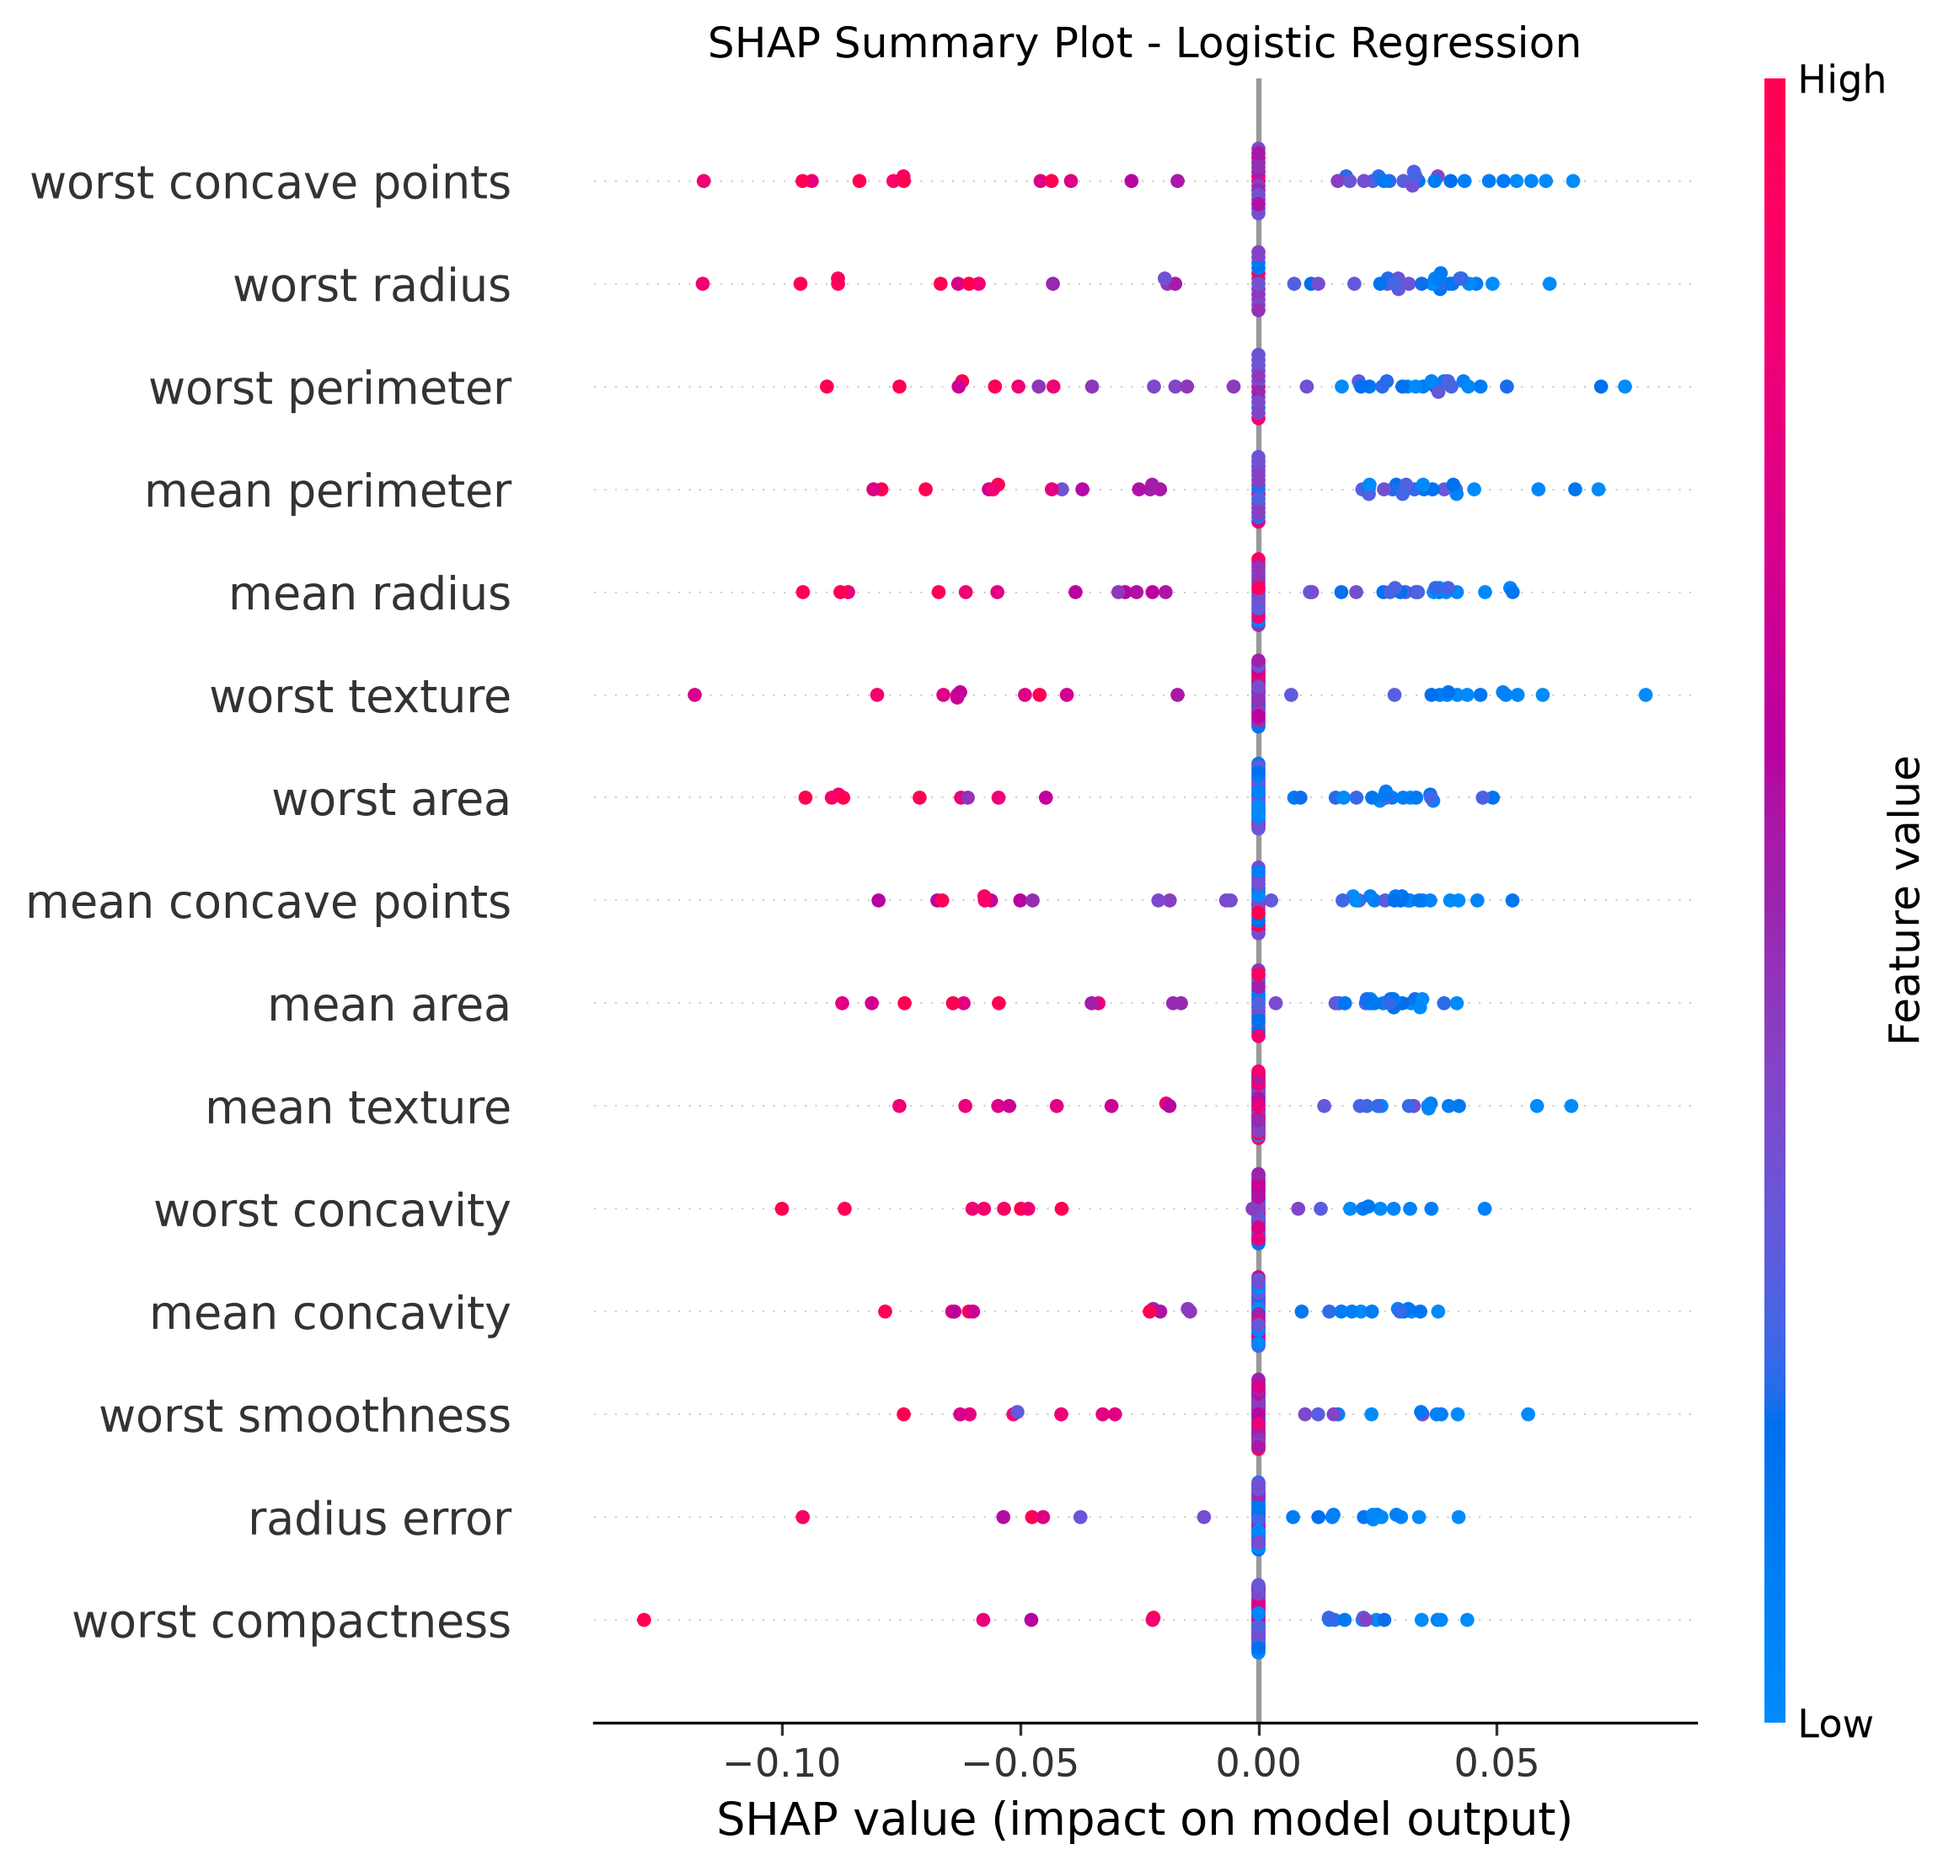
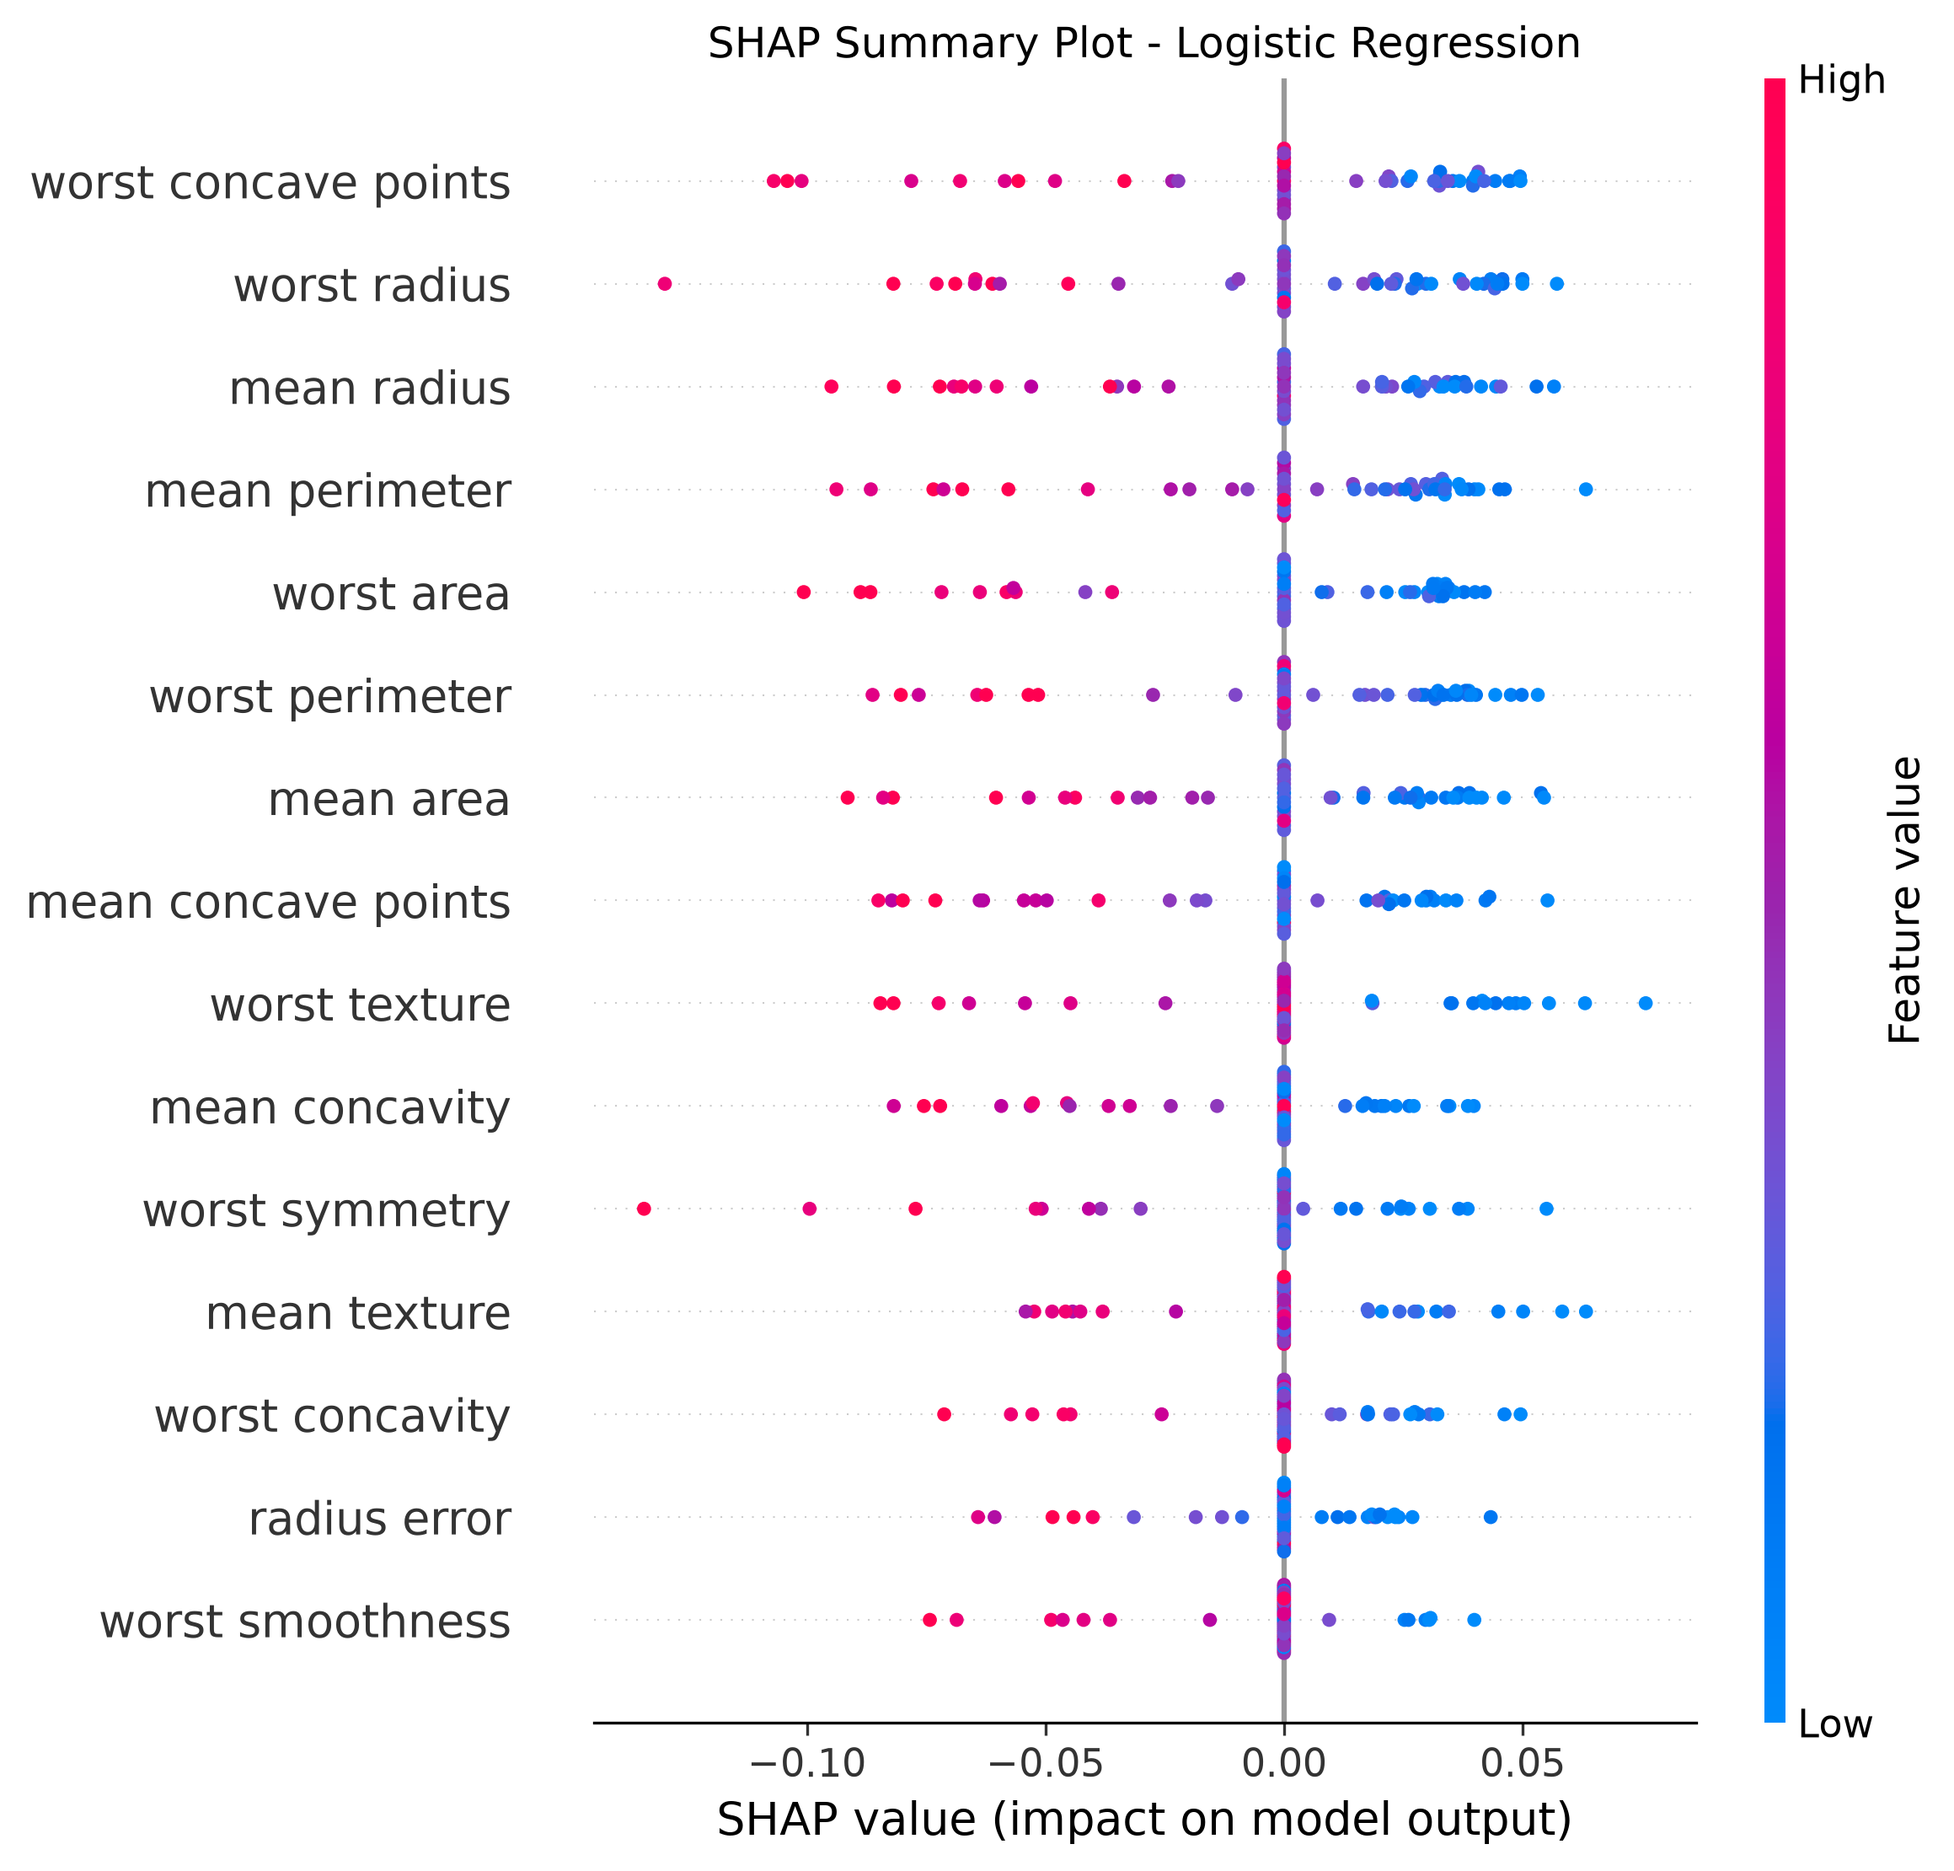
Added comments to each of the files

diff --git a/src/main.py b/src/main.py
@@ -1,3 +1,21 @@
+# Milan Suri
+# CSC 561
+'''
+This is the main pipeline of the project. It combines the logistic regression model with gradient descent to
+train my logistic regression model on the breast cancer dataset from sklearn. Achieves these results:
+
+--- Training Results ---
+Final loss: 0.10726159
+Iterations: 10000
+Bias: 0.317636
+
+--- Test Results ---
+Accuracy: 0.9912 (99.12%)
+Correct predictions: 113
+Total test samples: 114
+
+'''
+
 import numpy as np
 import shap
 import matplotlib.pyplot as plt
@@ -85,12 +103,12 @@ probabilities = np.asarray(predict_proba(X_test, weights, bias)).reshape(-1)
 
 accuracy = np.mean(predictions == y_test)
 
-print("\n--- Training Results ---")
+print("--- Training Results ---")
 print("Final loss:", loss)
 print("Iterations:", iterations)
 print("Bias:", bias)
 
-print("\n--- Test Results ---")
+print("\--- Test Results ---")
 print(f"Accuracy: {accuracy:.4f} ({accuracy * 100:.2f}%)")
 print("Correct predictions:", int(np.sum(predictions == y_test)))
 print("Total test samples:", len(y_test))
@@ -113,7 +131,7 @@ explainer = shap.KernelExplainer(shap_predict, background, feature_names=dataset
 shap_values = explainer.shap_values(X_explain, nsamples=200)
 
 
-# 11. Plot and save the SHAP summary
+# Plot and save the SHAP summary
 shap.summary_plot(
 shap_values,
     X_explain,

diff --git a/src/tests/test_activations.py b/src/tests/test_activations.py
@@ -1,12 +1,12 @@
+# Milan Suri
+# CSC 561
+# This file tests the
+
 import unittest
 import numpy as np
 from src.activations import *
 
 # Used Gemini for generating test cases: https://share.gemini.google/V00UIlfqOt33
-
-# Assuming your activation functions are imported or defined above:
-# from activations import relu, relu_d, sigmoid, sigmoid_d
-
 
 class ActivationFunctionsTest(unittest.TestCase):
 

diff --git a/src/tests/test_optimizers.py b/src/tests/test_optimizers.py
@@ -1,3 +1,7 @@
+# Milan Suri
+# CSC 561
+# This file tests the optimizers file in src
+
 import unittest
 import numpy as np
 from src.optimizers import *

diff --git a/src/tests/test_models.py b/src/tests/test_models.py
@@ -1,3 +1,5 @@
+# Testing file for the logistic regression file
+
 import unittest
 import numpy as np
 from src.logistic_regression import *
